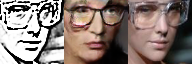
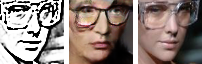
added examples

diff --git a/imgs/examples/combine_A_and_B_2.py b/imgs/examples/combine_A_and_B_2.py
@@ -19,6 +19,8 @@ for n in range(num_imgs):
         im_A = cv2.imread(path_A)
         im_B = cv2.imread(path_B)
         im_C = cv2.imread(path_C)
-        im_ABC = np.concatenate([im_A, im_B, im_C], 1)
+        h, w, c = im_A.shape
+        gap = np.ones((h, 5, c))*255
+        im_ABC = np.concatenate([im_A, gap, im_B, gap, im_C], 1)
         cv2.imwrite(path_ABC, im_ABC)
 
